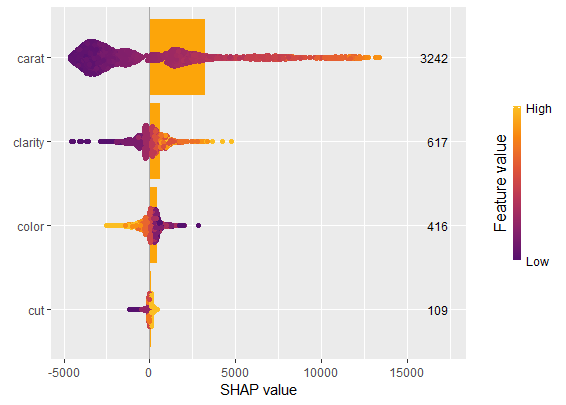
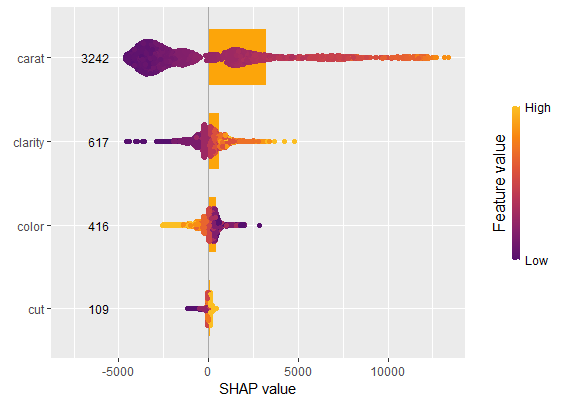
finished rework of sv_importance()

diff --git a/NEWS.md b/NEWS.md
@@ -1,22 +1,28 @@
 # shapviz 0.2.0
 
-## User-visible changes (non-breaking)
-
-- `sv_importance()` now shows a bar plot by default instead of a beeswarm plot. Use `kind = "beeswarm"` to get a beeswarm plot.
-- The bar plot of `sv_importance()` does not print numeric SHAP feature importances anymore. Use `show_numbers = TRUE` to get them back. Furthermore, the numbers are now printed on top of the bars instead on their bottom.
-
 ## Major improvements
 
 - Added H2O wrapper.
 - Added shapr wrapper.
 - Added an optional `collapse` argument in `shapviz()`. This is named list specifying which columns in the SHAP matrix are to be collapsed by rowwise summation. A typical application will be to combine the SHAP values of one-hot-encoded dummies and explain them by the corrsponding factor variable.
+- Major rework of `sv_importance()`, see next section.
+
+## Major rework of `sv_importance()`
+
+The calculations behind `sv_importance()` are unchanged, but defaults and some plot aspects have been reworked.
+
+- Instead of a beeswarm plot, `sv_importance()` now shows a bar plot by default. Use `kind = "beeswarm"` to get a beeswarm plot.
+- The bar plot of `sv_importance()` does not show SHAP feature importances as text anymore. Use `show_numbers = TRUE` to get them back. Furthermore, the numbers are now printed on top of the bars instead on their bottom.
+- The new argument `show_numbers` can be used to to add SHAP feature importance values for all plot types.
+- The default of `max_display` has been increased from 10 to 15.
+- The bar width has been reduced from 0.9 to 2/3 relative width. It can be controlled by the new argument `bar_width`.
+- The color bar title of the beeswarm plot can now be manually chosen by the new argument `color_bar_title`. Set to `NULL` to remove the color bar altogether.
+- The argument `format_fun` now uses a right-aligned number formatter with aligned decimal separator by default.
 
 ## Minor changes
 
-- `sv_importance()` received an argument `show_numbers` to add or hide SHAP feature importance values for all plot types.
 - Added `dim()` method for "shapviz" object, implying `nrow()` and `ncol()`.
 - To allow more flexible formatting, the `format_fun` argument of `sv_waterfall()` and `sv_force()` has been replaced by `format_shap` to format SHAP values and `format_feat` to format numeric feature values. By default, they use the new global options "shapviz.format_shap" and "shapviz.format_feat", both with default `function(z) prettyNum(z, digits = 3, scientific = FALSE)`.
-- The argument `format_fun` in `sv_importance()` now uses a better aligned number formatter.
 - `sv_waterfall()` now uses the more consistent argument `order_fun = function(s) order(abs(s))` instead of the original `sort_fun = function(shap) abs(shap)` that was then passed to `order()`.
 - Added argument `viridis_args = getOption("shapviz.viridis_args")` to `sv_dependence()` and `sv_importance()` to control the viridis color scale options. The default global option equals `list(begin = 0.25, end = 0.85, option = "inferno")`. For example, to switch to a standard viridis scale, you can either change the default with `options(shapviz.viridis_args = NULL)` 
 or set `viridis_args = NULL`.
